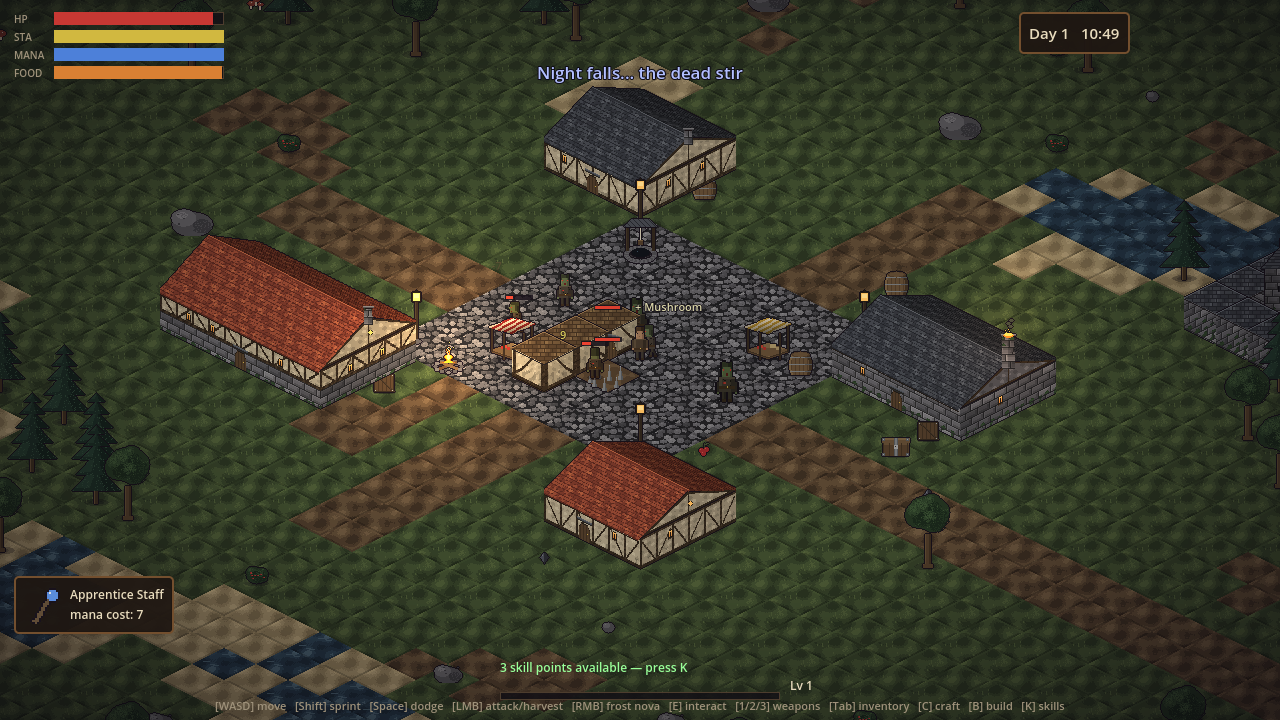
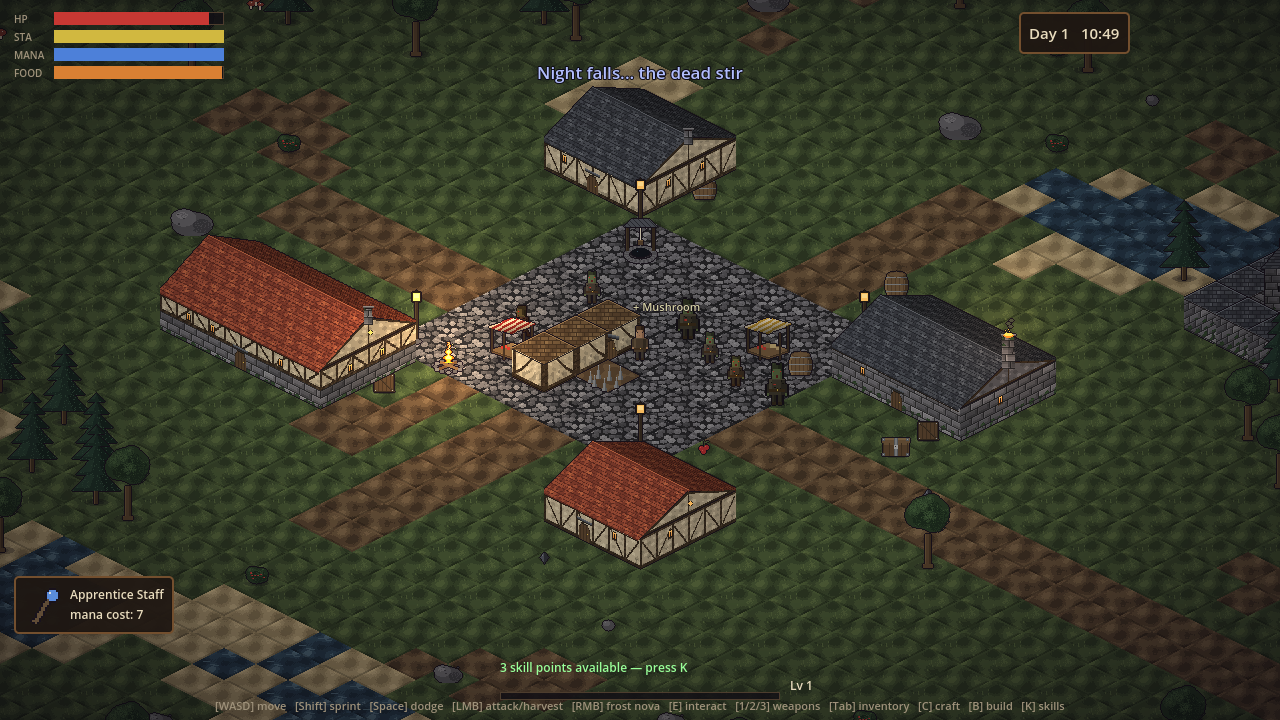
Project Zomboid-style difficulty: no enemy bars, noise, wounds, exhaustion
Readability the hard way:
- Removed zombie health bars and all damage numbers (player and enemy);
  zombies instead grow visibly bloodied as they take damage, and crits
  read through heavier knockback

Smart play systems:
- Noise: zombies have short sight but sharp ears — melee swings,
  sprinting footsteps, hammering structures, doors, magic, and
  especially fireball explosions broadcast noise that draws zombies to
  investigate the spot. Bows are the quiet option.
- Wounds and bleeding: zombie hits (brutes especially) can open a
  bleeding wound that drains health until treated; new bandage item
  (craft 2 from 1 cloth, found in chests), salves also cure; pulsing
  HUD warning while bleeding
- Exhaustion: below 20 stamina melee swings do 40% less damage and
  recover slower

Tuning:
- Zombies hit harder (12/9/26) with more health (50/30/190); +15% speed
  at night kept; sight ranges cut (110 day / 170 night) so stealth
  around hordes is viable
- Food regen slowed to 0.25 HP/s and hunger drains faster; start with
  one bandage and fewer berries

https://claude.ai/code/session_01QWSZy1g7crafKAx86Grg4Q

Changed region(s): [[0.4375, 0.3667, 0.625, 0.5806], [0.375, 0.3972, 0.4062, 0.4278]]

diff --git a/medieval-zombie-survival/tools/generate_assets.py b/medieval-zombie-survival/tools/generate_assets.py
@@ -1215,6 +1215,16 @@ def make_item_icons():
     px(im, 10, 4, IRON[1] + (255,))
     icons["workbench"] = im
 
+    im = icon_base()  # bandage
+    disc(im, 8, 10, 5.2, 5.2, (214, 206, 192, 255))
+    disc(im, 8, 10, 2.0, 2.0, (162, 152, 138, 255))
+    for a in range(10):
+        ang = a / 10 * math.tau
+        px(im, 8 + math.cos(ang) * 3.6, 10 + math.sin(ang) * 3.6, (188, 178, 164, 255))
+    rect(im, 11, 3, 15, 5, (214, 206, 192, 255))
+    rect(im, 11, 5, 15, 5, (178, 168, 154, 255))
+    icons["bandage"] = im
+
     for name, im in icons.items():
         save(outline(im), "items/%s.png" % name)
 

diff --git a/medieval-zombie-survival/README.md b/medieval-zombie-survival/README.md
@@ -55,7 +55,16 @@ horde grows larger and more aggressive every day.
   for magic staves.
 - **Combat**: melee swings chain into a 3-hit combo with a heavy finisher; all attacks
   can crit; dodge roll through hordes with `Space`. Zombies lurch, flank around
-  obstacles, and leave corpses and blood where they fall.
+  obstacles, and leave corpses and blood where they fall. There are no enemy health
+  bars or damage numbers — read a zombie's wounds by how bloodied it looks.
+- **Noise is death.** Zombies have short sight but sharp ears: melee swings, sprinting,
+  hammering structures, doors, magic, and especially explosions all draw the horde to
+  the sound. Bows are quiet. Fighting loud in the open invites a swarm.
+- **Wounds**: zombie hits can open a bleeding wound that drains health until you use a
+  bandage (craft 2 from 1 cloth) or a salve. Healing from food is slow — survival
+  favors not getting hit at all.
+- **Exhaustion**: below 20 stamina your swings turn feeble and slow. Manage sprinting
+  and attacking, or the horde will catch you winded.
 
 ### Enemies
 
